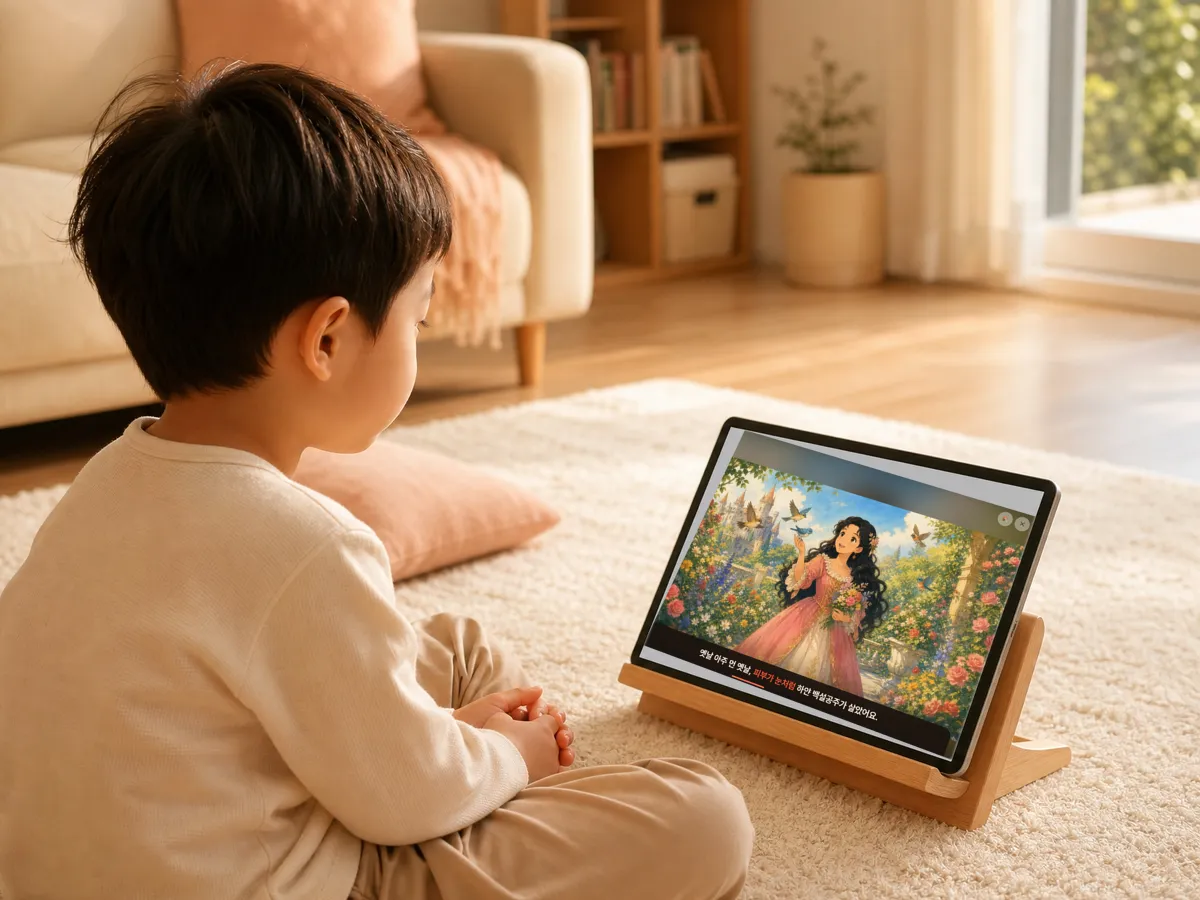
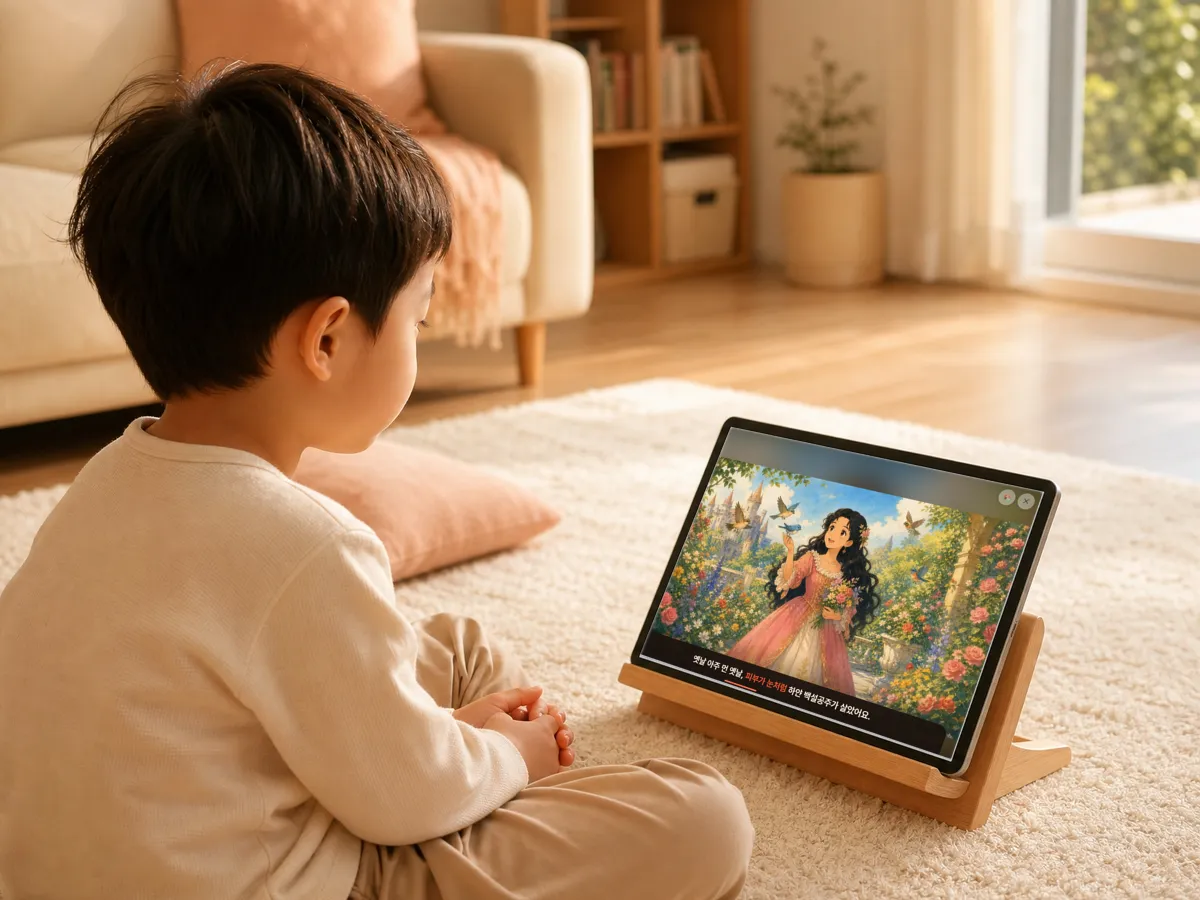
feat(marketing): show the whole curriculum and shelf, and stop guessing quads
The hero composite had a grey border down its left side: the quad I eyeballed
was 15px short, and the plate showed through the gap. So the corners are no
longer eyeballed — the tool now takes the convex hull of the screen mask and
drops vertices until four remain, which put all four photos exactly on their
screens.

The vocabulary game was behind a tab, which is the same as not being there.
Reading and the word game are now two boxes, both open, and the game box only
offers the books that actually have key_objects.

The curriculum was five summary rows, so "32단원" was only a number; every unit
name is now listed, read from the same curriculum the app runs, so it grows on
its own. The shelf was thirteen category chips; it now shows the covers.

The hero was the one column at max-w-5xl while everything else sat at
max-w-3xl, so its left edge never lined up. All seven columns now start at the
same x — measured, not assumed.

Changed region(s): [[0.5242, 0.4667, 0.8633, 0.84], [0.6475, 0.4667, 0.6783, 0.4978]]

diff --git a/packages/client/src/pages/HangulBookTryIt.tsx b/packages/client/src/pages/HangulBookTryIt.tsx
@@ -1,4 +1,4 @@
-import { useMemo, useState } from 'react';
+import { useMemo, useState, type ReactNode } from 'react';
 import { Link } from 'react-router-dom';
 import type { Storybook } from '@tangobook/shared';
 import { useStorybook } from '@/features/storybook/hooks/useStorybooks';
@@ -11,8 +11,10 @@ import { deriveStorybookUnit } from '@/features/vocabulary-unit/lib/derive-story
  *
  * 🔴 파닉스 상자와 같은 원리 — 스크린샷이 아니라 앱이 쓰는 그 컴포넌트를 그대로 얹는다.
  *    뷰어(`ViewerContainer`)도 낱말 게임(`VocabularyStudyContent`)도 손대지 않았다.
- * 🔴 **한 번에 한 권만 마운트한다.** 카테고리가 13개라 전부 얹으면 책 13권치 삽화·나레이션을
- *    한꺼번에 받는다(권당 14쪽). 칩으로 고르면 그 권만 뜬다 — 13권을 다 들려주면서도 무게는 한 권.
+ * 🔴 **읽어주기와 낱말 게임을 탭으로 감추지 않는다**(2026-08-02 사용자: "동화책 어휘 게임이
+ *    안 보이는데?"). 탭 뒤에 있으면 없는 것과 같다 — 상자를 둘로 나눠 **둘 다 펼쳐 둔다**.
+ * 🔴 **한 번에 한 권만 마운트한다.** 카테고리가 아홉이라 전부 얹으면 아홉 권치 삽화·나레이션을
+ *    한꺼번에 받는다. 칩으로 고르면 그 권만 뜬다 — 아홉 권을 다 보여주면서 무게는 한 권.
  * 🔴 `transform` 으로 상자에 가둔다 — 뷰어는 전체화면(`fixed`)이라 그냥 얹으면 랜딩을 덮는다.
  *    변환된 조상이 `fixed` 의 컨테이닝 블록이 되는 성질을 쓴다(파닉스 상자와 같은 처리).
  */
@@ -20,10 +22,9 @@ import { deriveStorybookUnit } from '@/features/vocabulary-unit/lib/derive-story
 /**
  * 카테고리마다 대표 한 권 — 공개·나레이션 완비 책에서 골랐다(2026-08-01 실측).
  *
- * 🔴 `words` = 그 책의 `key_objects` 개수. **0 인 책은 낱말 게임이 통째로 비어 있다**
- *    (사용자 지적: "동화책 단어게임은 없네"). 호리 세 라인(생활동화·유치원·세상 탐험)이
- *    그렇다 — 대본은 있는데 핵심단어를 아직 안 뽑았다. 데이터에 없는 걸 화면이 만들 수는
- *    없으므로 **그 카테고리에서는 게임 탭 자체를 감춘다**. 빈 게임판을 보여주는 것보다 낫다.
+ * 🔴 `words` = 그 책의 `key_objects` 개수. **0 인 책은 낱말 게임이 통째로 비어 있다** —
+ *    호리 세 라인(생활동화·유치원·세상 탐험)이 그렇다(대본은 있는데 핵심단어를 아직 안 뽑았다).
+ *    데이터에 없는 걸 화면이 만들 수는 없으므로 **낱말 게임 상자에서는 그 책을 아예 뺀다**.
  */
 export const BOOKS_BY_CATEGORY: { cat: string; id: string; title: string; words: number }[] = [
   { cat: '세계 명작', id: '1778555233699', title: '백설공주', words: 6 },
@@ -37,62 +38,53 @@ export const BOOKS_BY_CATEGORY: { cat: string; id: string; title: string; words:
   { cat: '호리 세상 탐험', id: '1784860653877', title: '편지 배달 왔어요', words: 0 },
 ];
 
-type Mode = 'read' | 'games';
+type Book = (typeof BOOKS_BY_CATEGORY)[number];
 
-export function HangulBookTryIt() {
-  const [bookId, setBookId] = useState(BOOKS_BY_CATEGORY[0].id);
-  const [mode, setMode] = useState<Mode>('read');
-  const picked = BOOKS_BY_CATEGORY.find((b) => b.id === bookId) ?? BOOKS_BY_CATEGORY[0];
-  /** 낱말이 없는 책이면 게임 탭을 숨기고, 읽어주기로 되돌린다. */
-  const hasGames = picked.words > 0;
-  const view: Mode = hasGames ? mode : 'read';
-
-  const book = useStorybook(bookId).data as Storybook | undefined;
-  /** 🔴 책이 오기 전엔 만들지 않는다 — 빈 단원을 넘기면 게임 카드가 0개로 뜬다. */
-  const unit = useMemo(() => (book ? deriveStorybookUnit(book) : null), [book]);
-
+function TryItShell({
+  tone,
+  label,
+  books,
+  bookId,
+  setBookId,
+  footer,
+  children,
+}: {
+  tone: 'mint' | 'amber';
+  label: string;
+  books: Book[];
+  bookId: string;
+  setBookId: (id: string) => void;
+  footer: string;
+  children: ReactNode;
+}) {
+  const chipOn =
+    tone === 'mint'
+      ? 'border-mint-500 bg-mint-50 text-mint-600'
+      : 'border-amber-500 bg-amber-50 text-amber-600';
+  const btn = tone === 'mint' ? 'bg-mint-500 hover:bg-mint-600' : 'bg-amber-500 hover:bg-amber-600';
   return (
     /* 🔴 파닉스 상자와 같은 이유로 뷰포트 폭 — 뷰어·게임이 `vw`/`dvh` 로 크기를 잡는다. */
     <div
-      className="my-7 overflow-hidden border-y border-mint-200 bg-white shadow-sm sm:rounded-[26px] sm:border-x"
+      className={`my-7 overflow-hidden border-y bg-white shadow-sm sm:rounded-[26px] sm:border-x ${
+        tone === 'mint' ? 'border-mint-200' : 'border-amber-200'
+      }`}
       style={{ width: '100vw', marginLeft: 'calc(50% - 50vw)' }}
     >
       <div className="flex flex-wrap items-center justify-between gap-2 border-b border-ink-100 px-5 py-3">
-        <span className="text-sm font-bold text-ink-800 break-keep">
-          📖 {picked.cat} · {picked.title}
+        <span className="text-sm font-bold text-ink-800 break-keep">{label}</span>
+        <span className="shrink-0 rounded-full bg-ink-50 px-3 py-1 text-[11px] font-bold text-ink-500">
+          실제 앱 화면
         </span>
-        {hasGames && (
-          <div className="flex items-center gap-1 rounded-full border border-ink-100 p-0.5">
-            {(
-              [
-                ['read', '읽어주기'],
-                ['games', '낱말 게임'],
-              ] as const
-            ).map(([m, label]) => (
-              <button
-                key={m}
-                onClick={() => setMode(m)}
-                className={`min-h-[36px] rounded-full px-4 text-xs font-bold transition ${
-                  view === m ? 'bg-mint-500 text-white' : 'text-ink-500 hover:bg-mint-50'
-                }`}
-              >
-                {label}
-              </button>
-            ))}
-          </div>
-        )}
       </div>
 
       {/* 카테고리 칩 — 가로 스크롤(모바일에서 아홉 개가 한 줄에 안 들어간다) */}
       <div className="flex gap-2 overflow-x-auto border-b border-ink-100 px-5 py-3 [scrollbar-width:none] [&::-webkit-scrollbar]:hidden">
-        {BOOKS_BY_CATEGORY.map((b) => (
+        {books.map((b) => (
           <button
             key={b.id}
             onClick={() => setBookId(b.id)}
-            className={`shrink-0 rounded-full border px-3 py-1.5 text-xs font-semibold transition ${
-              b.id === bookId
-                ? 'border-mint-500 bg-mint-50 text-mint-600'
-                : 'border-ink-100 text-ink-500 hover:bg-cream-50'
+            className={`min-h-[36px] shrink-0 rounded-full border px-3 text-xs font-semibold transition ${
+              b.id === bookId ? chipOn : 'border-ink-100 text-ink-500 hover:bg-cream-50'
             }`}
           >
             {b.cat}
@@ -100,19 +92,74 @@ export function HangulBookTryIt() {
         ))}
       </div>
 
+      {children}
+
+      <div className="flex flex-col items-center gap-2 bg-cream-50 px-5 py-4 text-center">
+        <p className="text-xs text-ink-500 break-keep">{footer}</p>
+        <Link
+          to="/library"
+          className={`rounded-full px-5 py-2 text-sm font-bold text-white shadow-sm transition ${btn}`}
+        >
+          동화책 전체 보기 →
+        </Link>
+      </div>
+    </div>
+  );
+}
+
+/** 📖 읽어주기 — 아홉 카테고리 전부. */
+export function HangulBookTryIt() {
+  const [bookId, setBookId] = useState(BOOKS_BY_CATEGORY[0].id);
+  const picked = BOOKS_BY_CATEGORY.find((b) => b.id === bookId) ?? BOOKS_BY_CATEGORY[0];
+
+  return (
+    <TryItShell
+      tone="mint"
+      label={`📖 읽어주기 · ${picked.cat} 「${picked.title}」`}
+      books={BOOKS_BY_CATEGORY}
+      bookId={bookId}
+      setBookId={setBookId}
+      footer="화면을 한 번 누르면 나레이션이 시작됩니다. 264권이 이렇게 읽힙니다."
+    >
       <div
         className="relative w-full overflow-hidden bg-cream-50"
         /**
-         * 🔴 **높이를 정하지 않고 뷰포트에 맞춘다.** 뷰어(`ViewerContainer`)도 낱말 게임도
-         *    안쪽이 `100dvh` 라, 상자를 620 으로 두면 아래 232px 가 그냥 잘린다(실측).
-         *    파닉스 게임 상자와 같은 처리 — 낮추는 대신 맞춘다.
+         * 🔴 **높이를 정하지 않고 뷰포트에 맞춘다.** 뷰어 안쪽이 `100dvh` 라 상자를 620 으로
+         *    두면 아래 232px 가 그냥 잘린다(실측). 낮추는 대신 맞춘다.
          */
         style={{ height: '100dvh', transform: 'translateZ(0)' }}
       >
-        {view === 'read' ? (
-          /* 🔴 `key` 로 remount — 책을 바꾸면 뷰어 내부 상태(페이지·재생)가 남으면 안 된다. */
-          <ViewerContainer key={bookId} storybookId={bookId} />
-        ) : unit && book ? (
+        {/* 🔴 `key` 로 remount — 책을 바꾸면 뷰어 내부 상태(페이지·재생)가 남으면 안 된다. */}
+        <ViewerContainer key={bookId} storybookId={bookId} />
+      </div>
+    </TryItShell>
+  );
+}
+
+/** 🎮 낱말 게임 — 핵심단어가 있는 책만(0 인 책은 게임판이 비어 있다). */
+export function HangulWordGameTryIt() {
+  const books = BOOKS_BY_CATEGORY.filter((b) => b.words > 0);
+  const [bookId, setBookId] = useState(books[0].id);
+  const picked = books.find((b) => b.id === bookId) ?? books[0];
+
+  const book = useStorybook(bookId).data as Storybook | undefined;
+  /** 🔴 책이 오기 전엔 만들지 않는다 — 빈 단원을 넘기면 게임 카드가 0개로 뜬다. */
+  const unit = useMemo(() => (book ? deriveStorybookUnit(book) : null), [book]);
+
+  return (
+    <TryItShell
+      tone="amber"
+      label={`🎮 낱말 게임 · 「${picked.title}」에 나온 낱말 ${picked.words}개`}
+      books={books}
+      bookId={bookId}
+      setBookId={setBookId}
+      footer="그 책에 나온 낱말로 바로 게임합니다 — 책마다 낱말이 다릅니다."
+    >
+      <div
+        className="relative w-full overflow-hidden bg-cream-50"
+        style={{ height: '100dvh', transform: 'translateZ(0)' }}
+      >
+        {unit && book ? (
           <div className="h-full overflow-y-auto px-4 py-4">
             <VocabularyStudyContent key={bookId} unit={unit} storybook={book} lang="ko" />
           </div>
@@ -122,20 +169,6 @@ export function HangulBookTryIt() {
           </div>
         )}
       </div>
-
-      <div className="flex flex-col items-center gap-2 bg-cream-50 px-5 py-4 text-center">
-        <p className="text-xs text-ink-500 break-keep">
-          {view === 'read'
-            ? '화면을 한 번 누르면 나레이션이 시작됩니다. 266권이 이렇게 읽힙니다.'
-            : '이 책에 나온 낱말로 바로 게임합니다 — 책마다 다른 낱말입니다.'}
-        </p>
-        <Link
-          to="/library"
-          className="rounded-full bg-mint-500 px-5 py-2 text-sm font-bold text-white shadow-sm transition hover:bg-mint-600"
-        >
-          동화책 전체 보기 →
-        </Link>
-      </div>
-    </div>
+    </TryItShell>
   );
 }

diff --git a/packages/client/src/pages/HangulLandingPage.tsx b/packages/client/src/pages/HangulLandingPage.tsx
@@ -3,7 +3,10 @@ import { Link } from 'react-router-dom';
 import { useSeo } from '@/lib/useSeo';
 import { SiteFooter } from '@/components/SiteFooter';
 import { PhonicsTryIt } from '@/features/phonics-learner/components/PhonicsTryIt';
-import { HangulBookTryIt } from './HangulBookTryIt';
+import { HangulBookTryIt, HangulWordGameTryIt } from './HangulBookTryIt';
+import { getAllKoreanUnits } from '@/features/phonics-learner/lib/korean-phonics-units';
+import { useStorybooks } from '@/features/storybook/hooks/useStorybooks';
+import { BookCover } from '@/design-system/primitives/BookCover';
 
 /**
  * `/hangul` — 광고 랜딩(상세페이지). 네이버·메타 광고의 도착지.
@@ -230,6 +233,61 @@ function Photo({
   );
 }
 
+/**
+ * 한글 파닉스 **전 단원 목록**. 요약 다섯 줄만 두면 「32단원」이 숫자로만 남는다 —
+ * 단원 이름을 다 펼쳐야 분량이 눈에 보인다(2026-08-02 사용자: "있는 거 다 자랑해야해").
+ * 🔴 목록을 손으로 적지 않는다 — 앱이 쓰는 커리큘럼(`getAllKoreanUnits`)을 그대로 읽어서,
+ *    단원이 늘면 이 화면도 같이 늘어난다. 복습 단원은 배지로 구분한다.
+ */
+function CurriculumUnits() {
+  const units = getAllKoreanUnits();
+  const levels = [...new Map(units.map((u) => [u.levelKey, u.levelName])).entries()];
+  const clean = (t: string) => t.replace(/^unit\s*\d+\s*:\s*/i, '');
+  return (
+    <div className="!mt-6 space-y-3">
+      {levels.map(([key, name]) => (
+        <div key={key} className="rounded-2xl border border-ink-100 bg-white/70 p-4">
+          <p className="text-xs font-bold text-coral-500 break-keep">{name}</p>
+          <div className="mt-2 flex flex-wrap gap-1.5">
+            {units
+              .filter((u) => u.levelKey === key)
+              .map((u) => (
+                <span
+                  key={u.id}
+                  className={`rounded-full px-2.5 py-1 text-xs break-keep ${
+                    u.isReview ? 'bg-mint-100 font-bold text-mint-600' : 'bg-cream-100 text-ink-700'
+                  }`}
+                >
+                  {u.isReview ? '🏅 ' : ''}
+                  {clean(u.unitTitle)}
+                </span>
+              ))}
+          </div>
+        </div>
+      ))}
+    </div>
+  );
+}
+
+/**
+ * 동화책 **표지벽**. 권수만 적으면 안 믿긴다 — 표지를 깔면 그 자리에서 확인된다.
+ * 🔴 목록을 박아 두지 않는다 — 라이브러리 API 를 그대로 읽으므로 책이 늘면 벽도 늘어난다.
+ * 🔴 `BookCover` 를 쓴다(직접 `<img>` X) — 512px 썸네일로 유도해 준다. 원본은 장당 125KB 라
+ *    서른 장이면 4MB 다.
+ */
+function BookWall() {
+  const { data } = useStorybooks();
+  const books = (data ?? []).filter((b) => b.type !== 'phonics').slice(0, 40);
+  if (books.length === 0) return null;
+  return (
+    <div className="!mt-5 grid grid-cols-2 gap-2 sm:grid-cols-3 sm:gap-3">
+      {books.map((b) => (
+        <BookCover key={b.id} book={b} lang="ko" loading="lazy" className="rounded-xl" />
+      ))}
+    </div>
+  );
+}
+
 function Section({
   eyebrow,
   title,
@@ -275,7 +333,7 @@ export default function HangulLandingPage() {
         <div className="pointer-events-none absolute -right-20 -top-16 h-64 w-64 rounded-full bg-coral-100/60 blur-3xl" />
         {/* 🔴 md 부터 2열 — 사진을 글 아래 깔면 CTA 가 접힘선 밑으로 밀린다(3:2 라 768px 폭에서
             높이가 512px). 옆에 두면 빈 오른쪽이 채워지면서 CTA 는 그대로 위에 남는다. */}
-        <div className="relative mx-auto grid max-w-5xl items-center gap-8 text-center md:grid-cols-[1fr_minmax(0,420px)] md:gap-10 md:text-left">
+        <div className="relative mx-auto grid max-w-3xl items-center gap-8 text-center md:grid-cols-[1fr_minmax(0,300px)] md:gap-10 md:text-left">
           <div className="min-w-0">
             <p className="text-xs font-bold tracking-wide text-coral-500 sm:text-sm">
               4~7세 한글떼기 · 파닉스
@@ -436,6 +494,7 @@ export default function HangulLandingPage() {
             </li>
           ))}
         </ul>
+        <CurriculumUnits />
         <p className="!mt-6">
           사이사이 <strong>복습 단원 일곱</strong>이 끼어 있어, 배운 글자를 형식이 다른 놀이(글자
           사냥 · 뒤집기 짝 맞추기 · 듣고 고르기)로 다시 만납니다. 단원마다 익히기 네 가지와 낱말
@@ -517,7 +576,9 @@ export default function HangulLandingPage() {
           이것도 <strong>직접 읽어보실 수 있습니다.</strong> 카테고리를 눌러 그 라인의 책을 바꿔
           가며 들어보세요. 「낱말 게임」으로 넘기면 <em>그 책에 나온 낱말</em>로 바로 게임합니다.
         </p>
+        <BookWall />
         <HangulBookTryIt />
+        <HangulWordGameTryIt />
       </Section>
 
       {/* ── ⑥ 실측 숫자 ───────────────────────────────────────── */}
